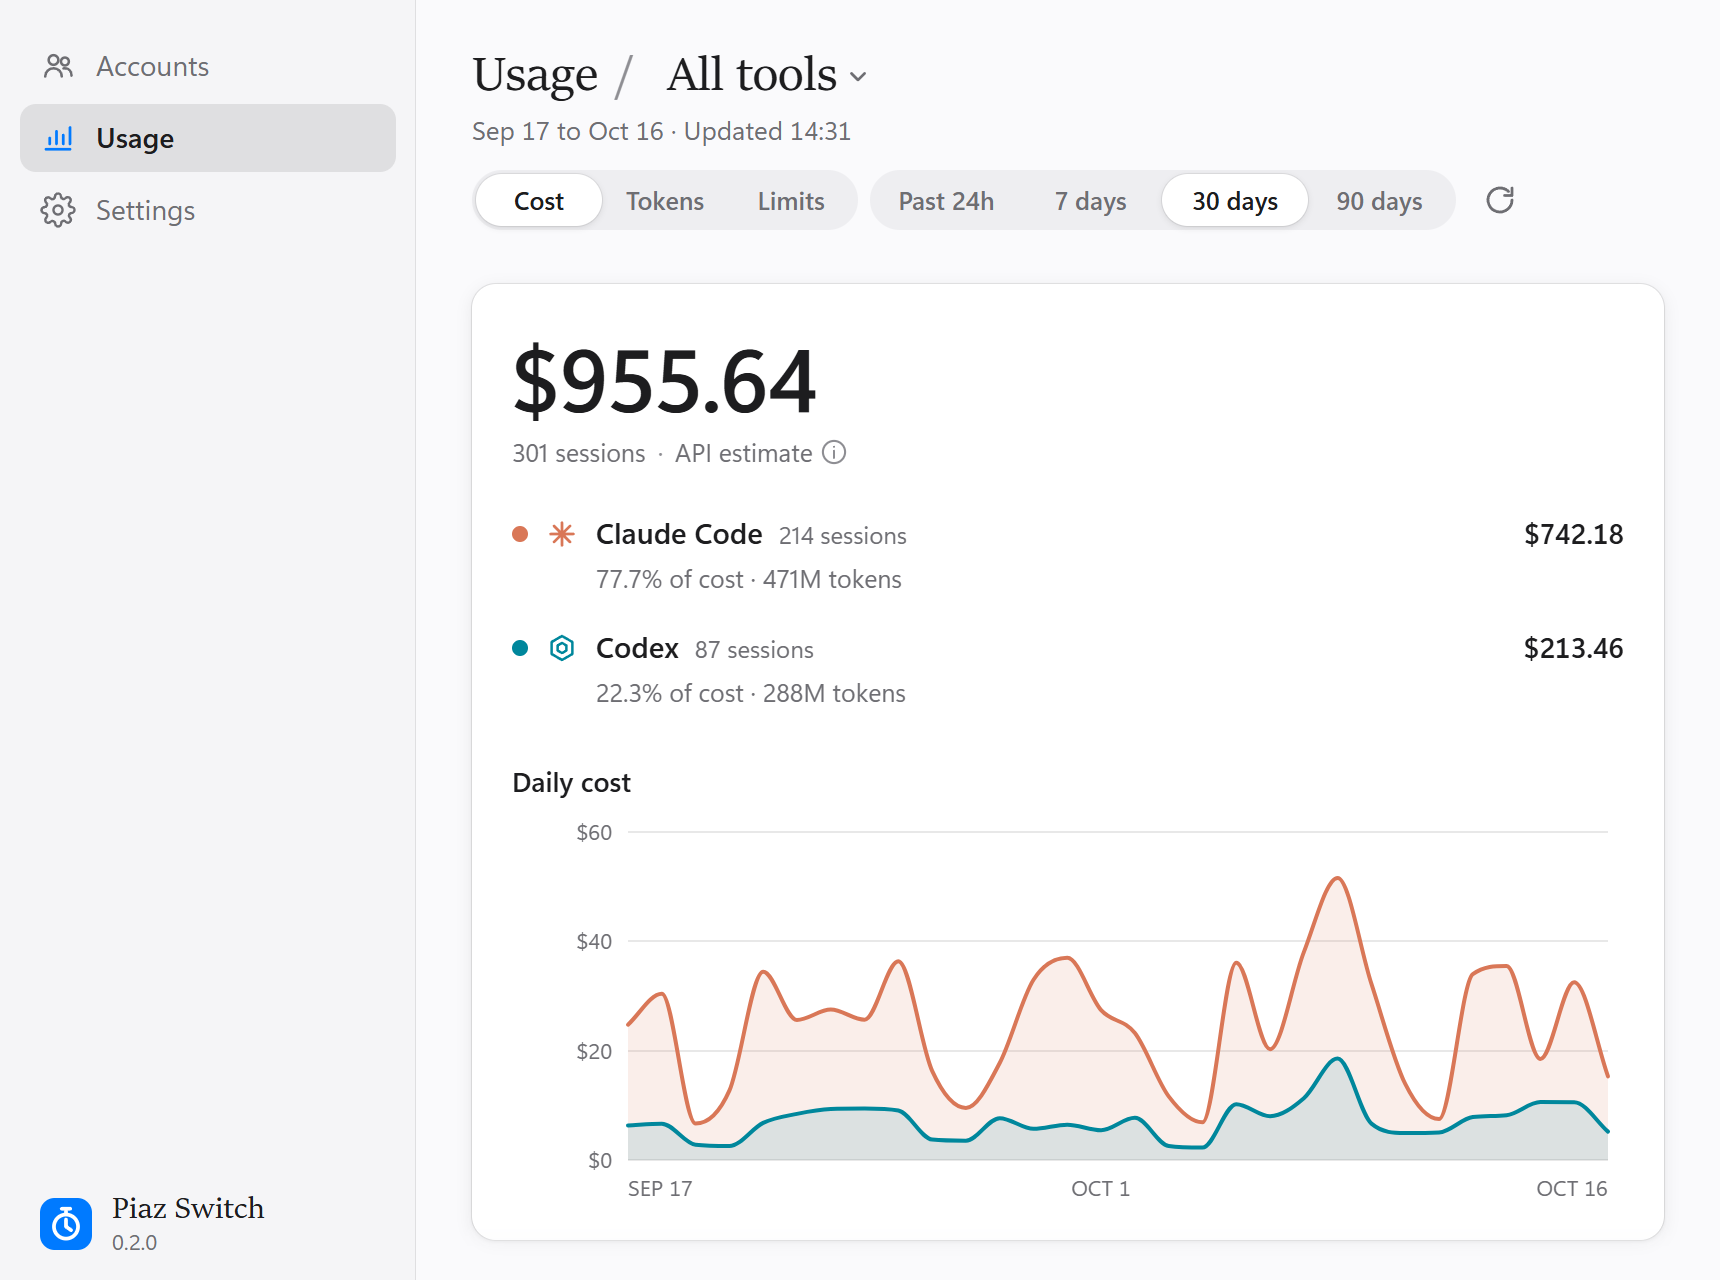
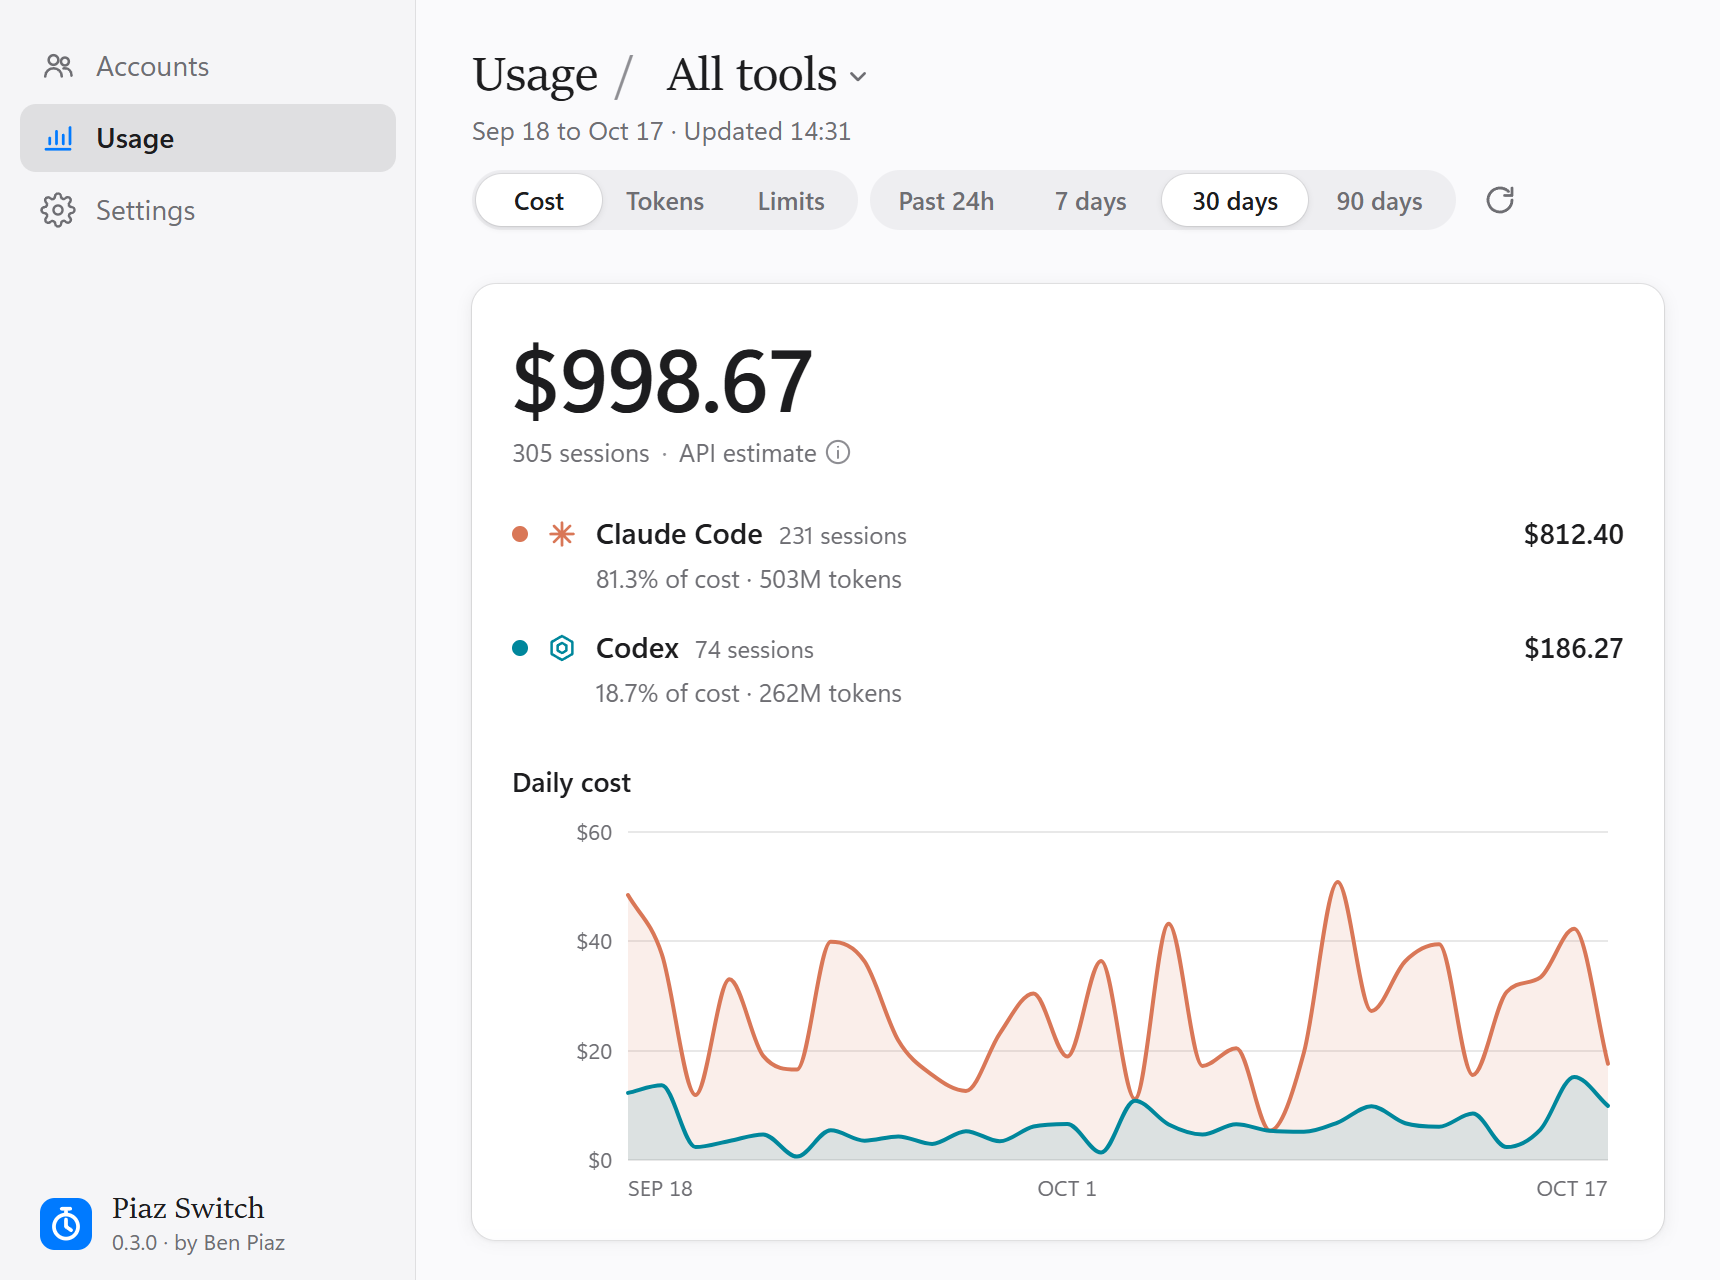
fix: mark the right Mac download, report tray links that fail, new screenshots
The download page only marks a Mac card when it knows the chip: Chrome and
Edge are asked for the CPU architecture, others read it from the WebGL
renderer. Safari says "Apple GPU" on every Mac, which used to mark the Apple
Silicon build for Intel Macs too; now no card is marked there and the hint
under the cards says how to check.

A link from the tray's "Made by Ben Piaz" menu that will not open now shows
a notification with its address, as the window already showed an alert.

The README and site screenshots show 0.3.0 (sample accounts), with the
author line under the version and the Settings shot at Automation.

diff --git a/site/main.js b/site/main.js
@@ -54,22 +54,40 @@
     return "other";
   }
 
-  // Apple Silicon shows an "Apple" GPU to WebGL; Intel Macs show Intel/AMD.
-  function macChip() {
+  // The Mac's chip from the GPU WebGL reports: "Apple M1…" on Apple Silicon,
+  // Intel/AMD on Intel Macs. Safari says "Apple GPU" on every Mac, so that
+  // (and anything else) is unknown: no card is marked and the hint under the
+  // cards tells how to check.
+  function macChipFromGpu() {
     try {
       var gl = document.createElement("canvas").getContext("webgl");
       var info = gl && gl.getExtension("WEBGL_debug_renderer_info");
       var renderer = info ? gl.getParameter(info.UNMASKED_RENDERER_WEBGL) : "";
-      if (/Apple M\d|Apple GPU/i.test(renderer)) return "arm";
+      if (/Apple M\d/i.test(renderer)) return "arm";
       if (/Intel|AMD|Radeon|NVIDIA/i.test(renderer)) return "intel";
     } catch (e) {}
-    return "arm";
+    return null;
+  }
+
+  // Chrome and Edge tell the CPU architecture outright; ask them first.
+  function macChip(done) {
+    var uaData = navigator.userAgentData;
+    if (!uaData || !uaData.getHighEntropyValues) return done(macChipFromGpu());
+    uaData.getHighEntropyValues(["architecture"]).then(
+      function (values) {
+        if (values.architecture === "arm") return done("arm");
+        if (values.architecture === "x86") return done("intel");
+        done(macChipFromGpu());
+      },
+      function () {
+        done(macChipFromGpu());
+      }
+    );
   }
 
   var os = detectOs();
   var suggested = null;
   if (os === "windows") suggested = document.querySelector('[data-os="windows"]');
-  if (os === "mac") suggested = document.querySelector(macChip() === "intel" ? '[data-os="mac-intel"]' : '[data-os="mac-arm"]');
 
   var labels = {
     windows: { vi: "Tải cho Windows", en: "Download for Windows" },
@@ -85,14 +103,26 @@
     });
   }
 
-  if (suggested) suggested.classList.add("suggested");
+  function suggest(card) {
+    suggested = card;
+    if (!suggested) return;
+    suggested.classList.add("suggested");
+    paintSuggestion();
+  }
+
+  suggest(suggested);
+  if (os === "mac") {
+    macChip(function (chip) {
+      if (chip) suggest(document.querySelector(chip === "intel" ? '[data-os="mac-intel"]' : '[data-os="mac-arm"]'));
+    });
+  }
   if (labels[os]) {
     document.querySelectorAll("[data-os-icon] use").forEach(function (use) {
       use.setAttribute("href", os === "windows" ? "#i-windows" : "#i-apple");
     });
   }
   // On Windows the hero button downloads the installer at once; elsewhere it
-  // goes to the cards, where the right one is marked.
+  // goes to the cards, where the right one is marked when the chip is known.
   if (os === "windows") {
     document.querySelectorAll(".hero [data-primary-download]").forEach(function (a) {
       a.href = LATEST + "PiazSwitch-windows-x64-setup.exe";

diff --git a/crates/pitstop-app/src/tray.rs b/crates/pitstop-app/src/tray.rs
@@ -9,6 +9,7 @@ use crate::app;
 use crate::i18n::Lang;
 use crate::links;
 use crate::model::{self, MenuLine, Snapshot};
+use crate::settings;
 
 const TRAY_ID: &str = "pitstop";
 
@@ -148,7 +149,9 @@ fn chosen(app: &AppHandle, id: &str) {
         }
         ["open"] => app::show_window(app),
         ["link", name] => {
-            let _ = links::open(app, name);
+            if let Err(error) = links::open(app, name) {
+                link_failed(app, name, &error.message);
+            }
             return;
         }
         ["quit"] => {
@@ -160,6 +163,14 @@ fn chosen(app: &AppHandle, id: &str) {
     // A check item toggles itself when chosen; put the menu back as it is.
     let app = app.clone();
     std::thread::spawn(move || app::refresh(&app));
+}
+
+/// The tray has no window to show an alert in, so a link that would not
+/// open is told in a notification, with the address to open by hand.
+fn link_failed(app: &AppHandle, name: &str, error: &str) {
+    let lang = Lang::resolve(settings::load(&app::host()).language.as_deref());
+    let url = links::url(name).unwrap_or(name);
+    app::notify(app, lang.couldnt_open(), &format!("{url}\n{error}"));
 }
 
 /// Switch from the menu. Whether the tool holds a login Pitstop does not

diff --git a/crates/pitstop-app/src/app.rs b/crates/pitstop-app/src/app.rs
@@ -237,7 +237,7 @@ fn start_read(app: &AppHandle) {
 
 // ---------- duties: automatic switch, run-out notices, warm-ups ----------
 
-fn notify(app: &AppHandle, title: &str, body: &str) {
+pub fn notify(app: &AppHandle, title: &str, body: &str) {
     let _ = app.notification().builder().title(title).body(body).show();
 }
 

diff --git a/crates/pitstop-app/src/i18n.rs b/crates/pitstop-app/src/i18n.rs
@@ -72,6 +72,9 @@ impl Lang {
             _ => "",
         }
     }
+    pub fn couldnt_open(self) -> &'static str {
+        self.pick("Couldn’t open the link", "Không mở được link")
+    }
     pub fn no_accounts(self) -> &'static str {
         self.pick("No accounts yet", "Chưa có tài khoản")
     }
